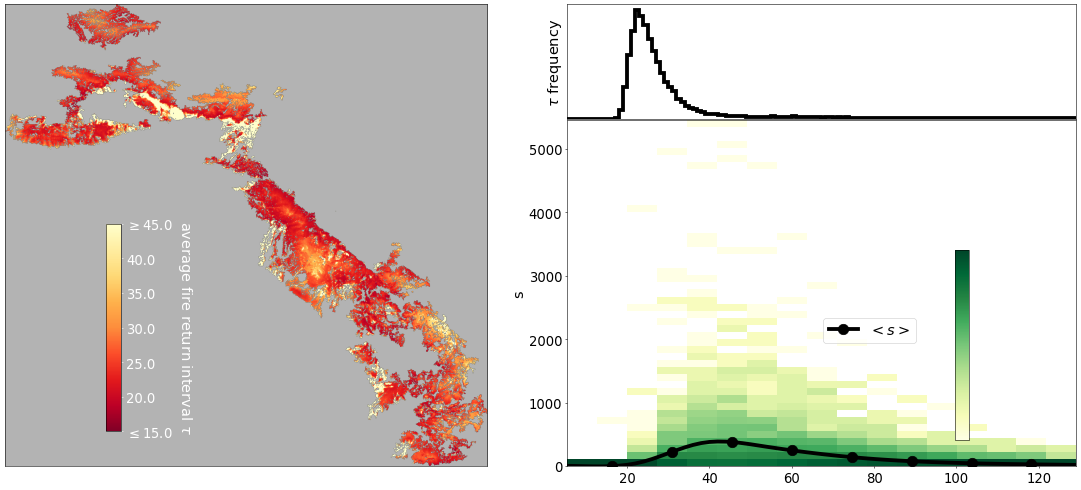
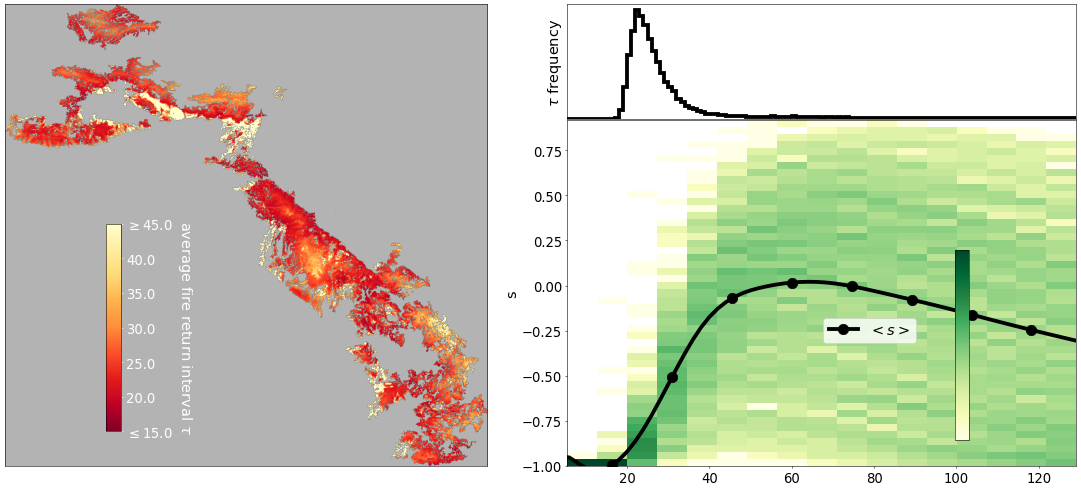
Move s computation to global_functions

diff --git a/sensitivity/global_functions.py b/sensitivity/global_functions.py
@@ -10,9 +10,9 @@ def adjustmaps(maps):
     return maps
 
 def lambda_s(N_tot, compressed, valid_timesteps=None, ext_mask=None,  burn_in_end_i=0):
+    eps = 1
     if compressed:
         # Add extinction threshold
-        eps = 1
         valid_timesteps[ext_mask] = valid_timesteps[ext_mask] + 1
         N_tot[ext_mask, 1] = eps
         N_slice = N_tot
@@ -28,11 +28,11 @@ def lambda_s(N_tot, compressed, valid_timesteps=None, ext_mask=None,  burn_in_en
         masked_N_slice = np.where(valid_mask, N_slice, np.nan)  # Replace zeros with NaN (ignored in np.nanprod)
 
         # Just use the first and final timesteps
+        '''Note the - 1 actually makes this the last valid timestep *index*t'''
         valid_timesteps = np.sum(valid_mask, axis=1) - 1
         final_N = np.take_along_axis(N_slice, valid_timesteps[..., None], axis=1)[:, 0]
 
         # Add extinction threshold
-        eps = 1
         ext_mask = valid_timesteps < (N_slice.shape[1] - 1)
         valid_timesteps[ext_mask] = valid_timesteps[ext_mask] + 1
         final_N[ext_mask] = eps
@@ -42,27 +42,30 @@ def lambda_s(N_tot, compressed, valid_timesteps=None, ext_mask=None,  burn_in_en
     lam_s_all = growthrates ** (1 / valid_timesteps)
     return lam_s_all
 
-#import pickle
-#import numpy as np
-#import h5py
-#
-## Function to read in things specific to given results as global variables
-#def set_globals(results_pre, Aeff, t_final, metric):
-#    globals()['metric_lab'] = f'$S_{{meta}}$'
-#    globals()['fn_prefix'] = f"{results_pre}/data/Aeff_{Aeff}/tfinal_{t_final}/metric_{metric}/"
-#    globals()['fig_prefix'] = f"{results_pre}/figs/Aeff_{Aeff}/tfinal_{t_final}/metric_{metric}/"
-#
-#    # Load things saved specific to these results
-#    with open(fn_prefix + 'metric_data.pkl', 'rb') as handle:
-#        globals()['metric_data'] = pickle.load(handle)
-#    globals()['all_metric'] = metric_data['all_metric']
-#    globals()['all_tau'] = np.load(f"{results_pre}/data/Aeff_{Aeff}/tfinal_{t_final}/all_tau.npy")
-#    globals()['C_vec'] = np.load(fn_prefix + "C_vec.npy")
-#    globals()['ncell_vec'] = np.load(fn_prefix + "ncell_vec.npy")
-#    globals()['slice_left_all'] = np.load(fn_prefix + "slice_left_all.npy")
-#    eps_axes = {}
-#    with h5py.File(fn_prefix + "/eps_axes.h5", "r") as handle:
-#        for key in handle.keys():
-#            eps_axes.update({key: handle[key][()]})
-#    globals()['eps_axes'] = eps_axes
+def s(N_tot, compressed, valid_timesteps=None, ext_mask=None,  burn_in_end_i=0):
+    if compressed:
+        # Place zeros for extirpated replicas' final abundance
+        valid_timesteps[ext_mask] = valid_timesteps[ext_mask] + 1
+        N_tot[ext_mask, 1] = 0
+        N_slice = N_tot
+        final_N = N_tot[:, 1]
+    else:
+        # Indices for slicing
+        start_i = burn_in_end_i  # Start after burn-in
+        final_i = N_tot.shape[1]  # Last valid timestep
+        N_slice = N_tot[:, start_i:final_i]  # Slice N_tot by all post burn in timesteps
 
+        # Mask where N_slice > 0 (avoiding inf values)
+        valid_mask = N_slice > 0
+
+        # Just use the first and final timesteps
+        valid_timesteps = np.sum(valid_mask, axis=1) - 1
+        final_N = np.take_along_axis(N_slice, valid_timesteps[..., None], axis=1)[:, 0]
+
+    # Compute s
+    fractional_change = (final_N / N_slice[:, 0]) - 1
+    # Take abs bc we only want the real part of the following root
+    s_all = np.abs(fractional_change) ** (1 / valid_timesteps) 
+    # Put signs back in
+    s_all = s_all * np.sign(fractional_change)
+    return s_all

diff --git a/sensitivity/project.py b/sensitivity/project.py
@@ -21,7 +21,7 @@ import sys
 import itertools
 from itertools import product
 import h5py
-from global_functions import adjustmaps, lambda_s
+from global_functions import adjustmaps, lambda_s, s
 MPI.COMM_WORLD.Set_errhandler(MPI.ERRORS_RETURN)
 
 # Open up signac project
@@ -172,7 +172,6 @@ def compute_mu_s(job):
 @FlowProject.post(lambda job: job.doc.get('lambda_s_computed'))
 @FlowProject.operation
 def compute_lambda_s(job):
-    #print(job.id)
     compressed = True
     with job.data:
         census_t = np.array(job.data["census_t"])
@@ -202,43 +201,20 @@ def compute_lambda_s(job):
 @FlowProject.operation
 def compute_s(job):
     with job.data:
-        census_t = np.array(job.data["census_t"])
-        burn_in_end_i = 0
+        compressed = True
         for b in b_vec:
-            N_tot = np.array(job.data[f"N_tot/{b}"])
-            # Indices for slicing
-            start_i = burn_in_end_i  # Start after burn-in
-            final_i = N_tot.shape[1]  # Last valid timestep
-            N_slice = N_tot[:, start_i:final_i]  # Slice N_tot by all post burn in timesteps
-
-            # Mask where N_slice > 0 (avoiding inf values)
-            valid_mask = N_slice > 0
-            #masked_N_slice = np.where(valid_mask, N_slice, np.nan)  # Replace zeros with NaN (ignored in np.nanprod)
-
-            # Just use the first and final timesteps
-            valid_timesteps = np.sum(valid_mask, axis=1)
-            final_N = np.take_along_axis(N_slice, valid_timesteps[..., None] - 1, axis=1)[:, 0]
-
-            ## Add extinction threshold
-            #eps = 1
-            #ext_mask = valid_timesteps < (N_slice.shape[1] - 1)
-            #valid_timesteps[ext_mask] = valid_timesteps[ext_mask] + 1
-            #final_N[ext_mask] = eps 
-
-            fractional_change = (final_N / N_slice[:, 0]) - 1
-            # Compute s
-            # Take abs bc we only want the real part of the following root
-            s_all = np.abs(fractional_change) ** (1 / valid_timesteps) 
-            # Put signs back in
-            s_all = s_all * np.sign(fractional_change)
-            #print(valid_timesteps[:10])
-            #print(final_N[:10])
-            #print(N_slice[:, 0][:10])
-            #print(s_all[:10])
+            if compressed:
+                valid_timesteps = np.array(job.data[f"valid_timesteps/{b}"])
+                ext_mask = np.array(job.data[f"ext_mask/{b}"])
+                N_tot = np.array(job.data[f"first_and_final/{b}"])
+            else:
+                valid_timesteps = None
+                ext_mask = None
+                N_tot = np.array(job.data[f"N_tot/{b}"])
+            s_all = s(N_tot, compressed=compressed, valid_timesteps=valid_timesteps, ext_mask=ext_mask)
             if np.any(np.isnan(s_all)): print('theres nans')
             job.data[f's/{b}'] = np.nanmean(s_all) 
             job.data[f's_all/{b}'] = s_all
-            #job.data[f'lambda_s_std/{b}'] = np.std(lam_s_all[valid_exponent_mask], ddof=1)
 
     job.doc['s_computed'] = True
 

diff --git a/sensitivity/phase.py b/sensitivity/phase.py
@@ -38,8 +38,8 @@ constants['meta_metric'] = 'gte_thresh'
 # Define metrics and tauc methods to run analysis on
 #metrics = ["lambda_s", "mu_s", "r"]
 #metrics = ["P_s"]
-metrics = ["lambda_s"]
-#metrics = ["s"]
+#metrics = ["lambda_s"]
+metrics = ["s"]
 #tauc_methods = ["flat", "initlinear", "initinverse"]
 tauc_methods = ["flat"]
 

diff --git a/sensitivity/makefig.py b/sensitivity/makefig.py
@@ -18,8 +18,8 @@ import os
 
 # Define/load things non-specific to a given set of results
 #metric = "P_s"
-metric = 'lambda_s'
-#metric = 's'
+#metric = 'lambda_s'
+metric = 's'
 Aeff = 7.29
 t_final = 300
 ncell_tot = 87_993
